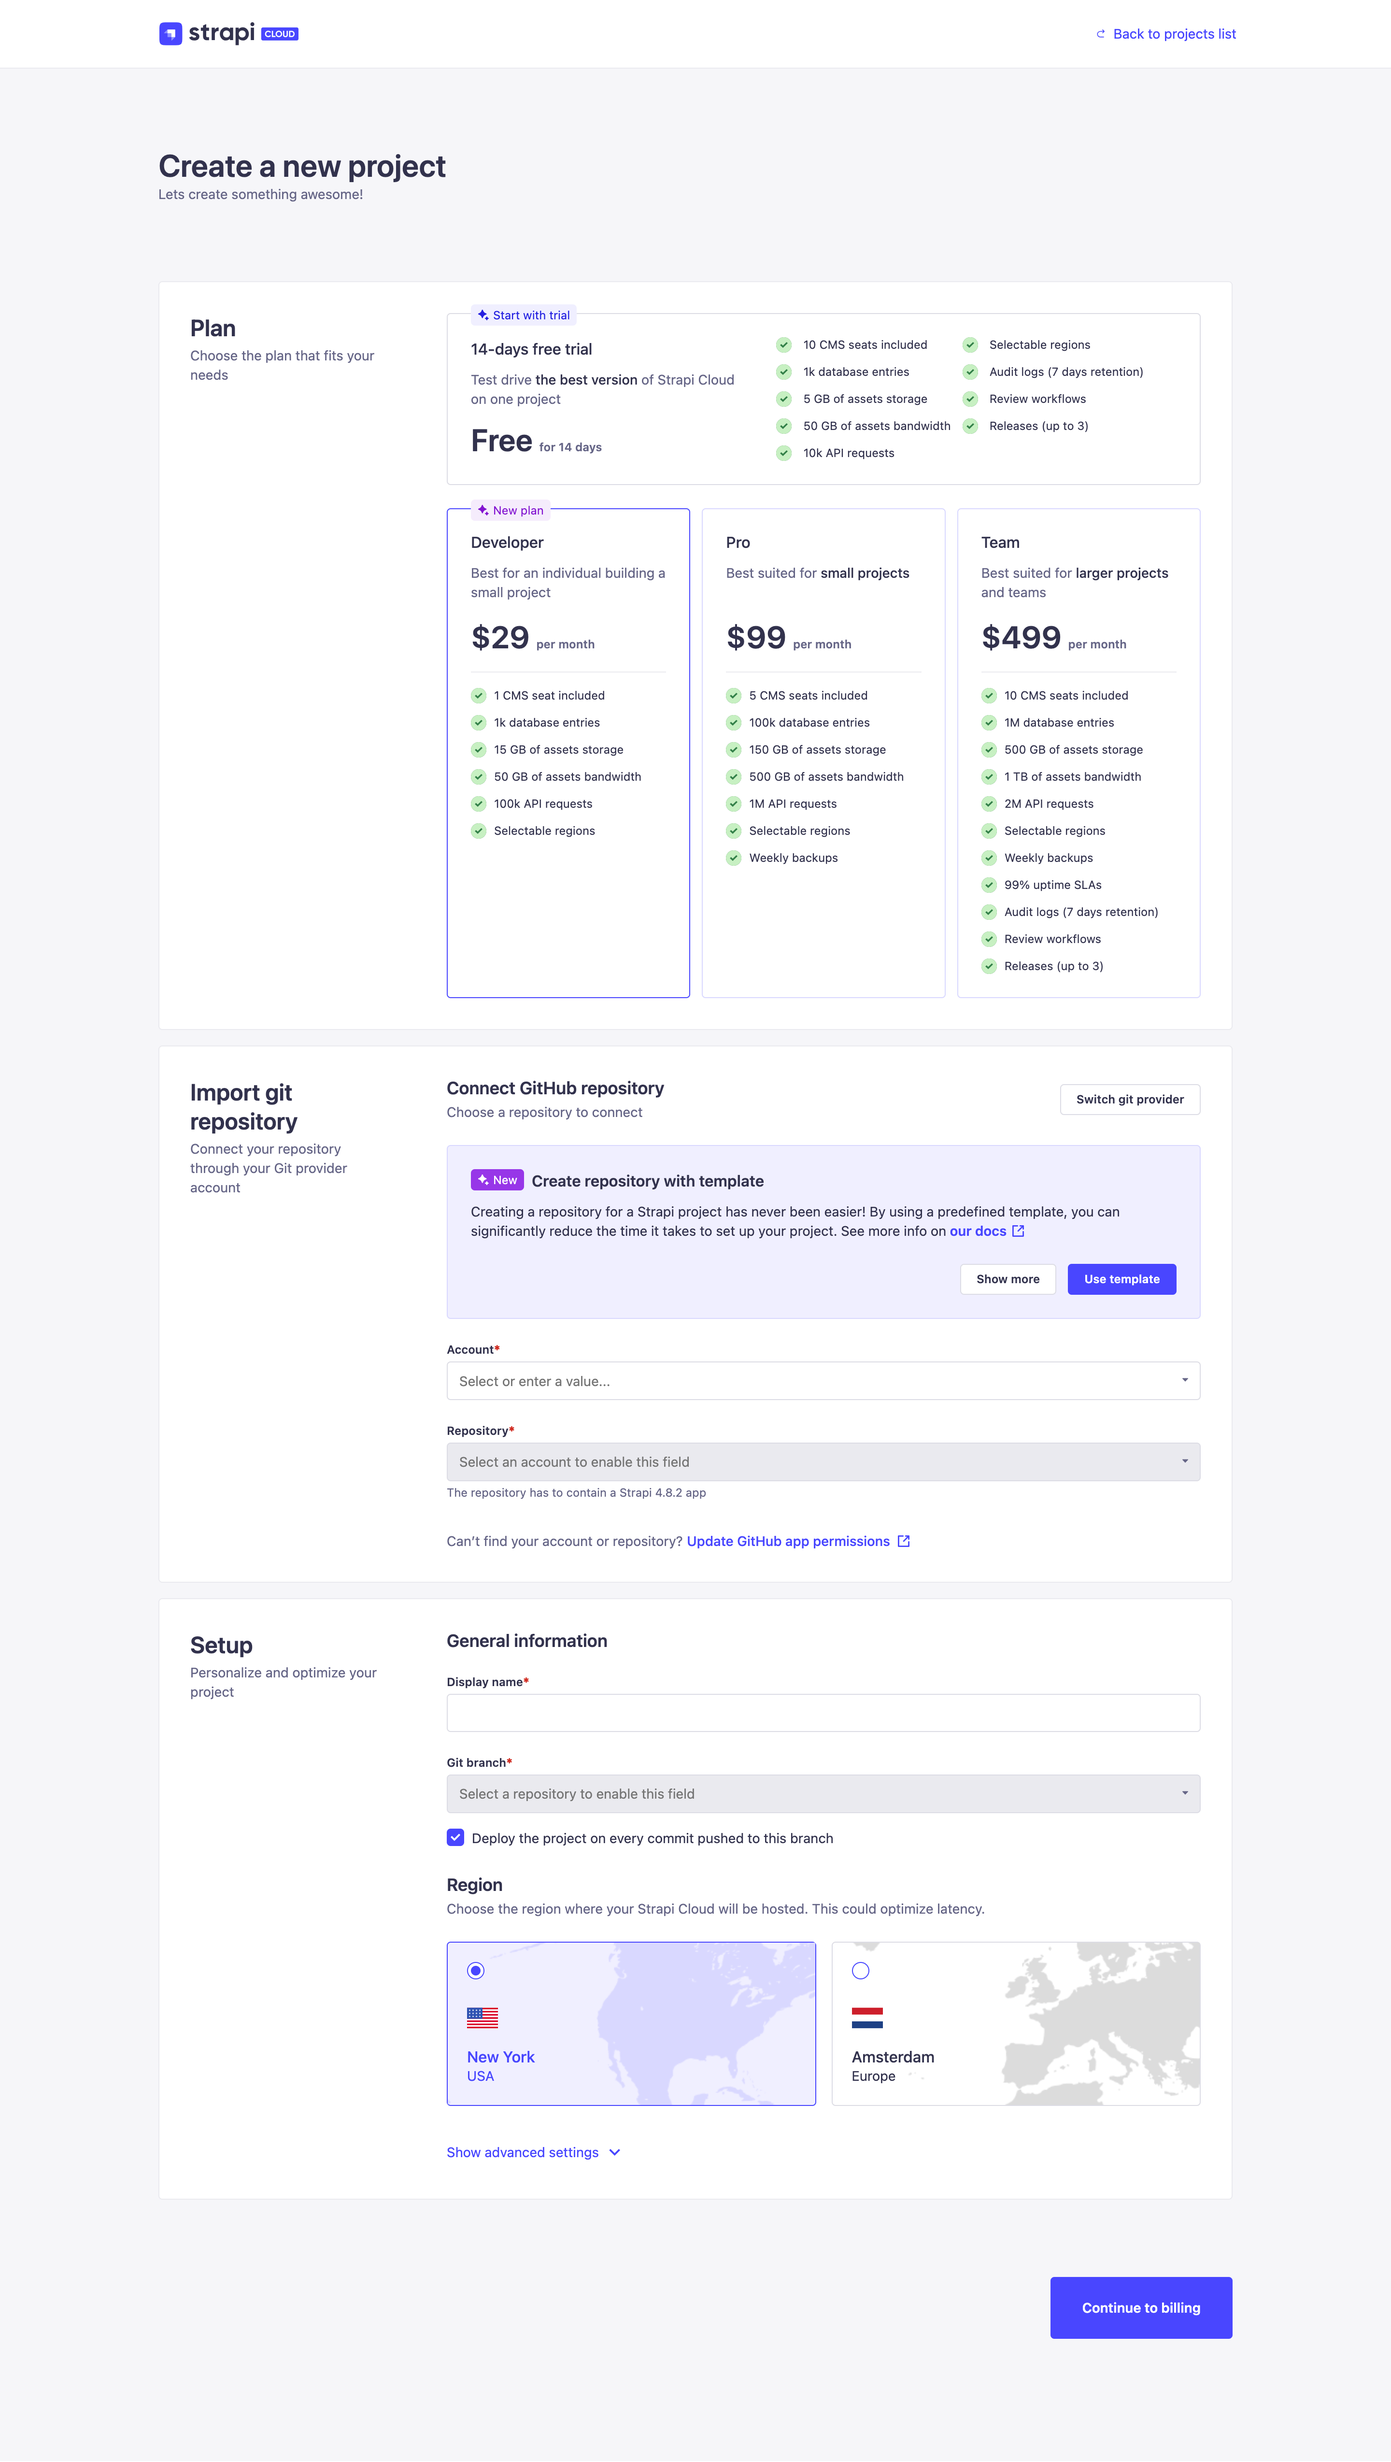
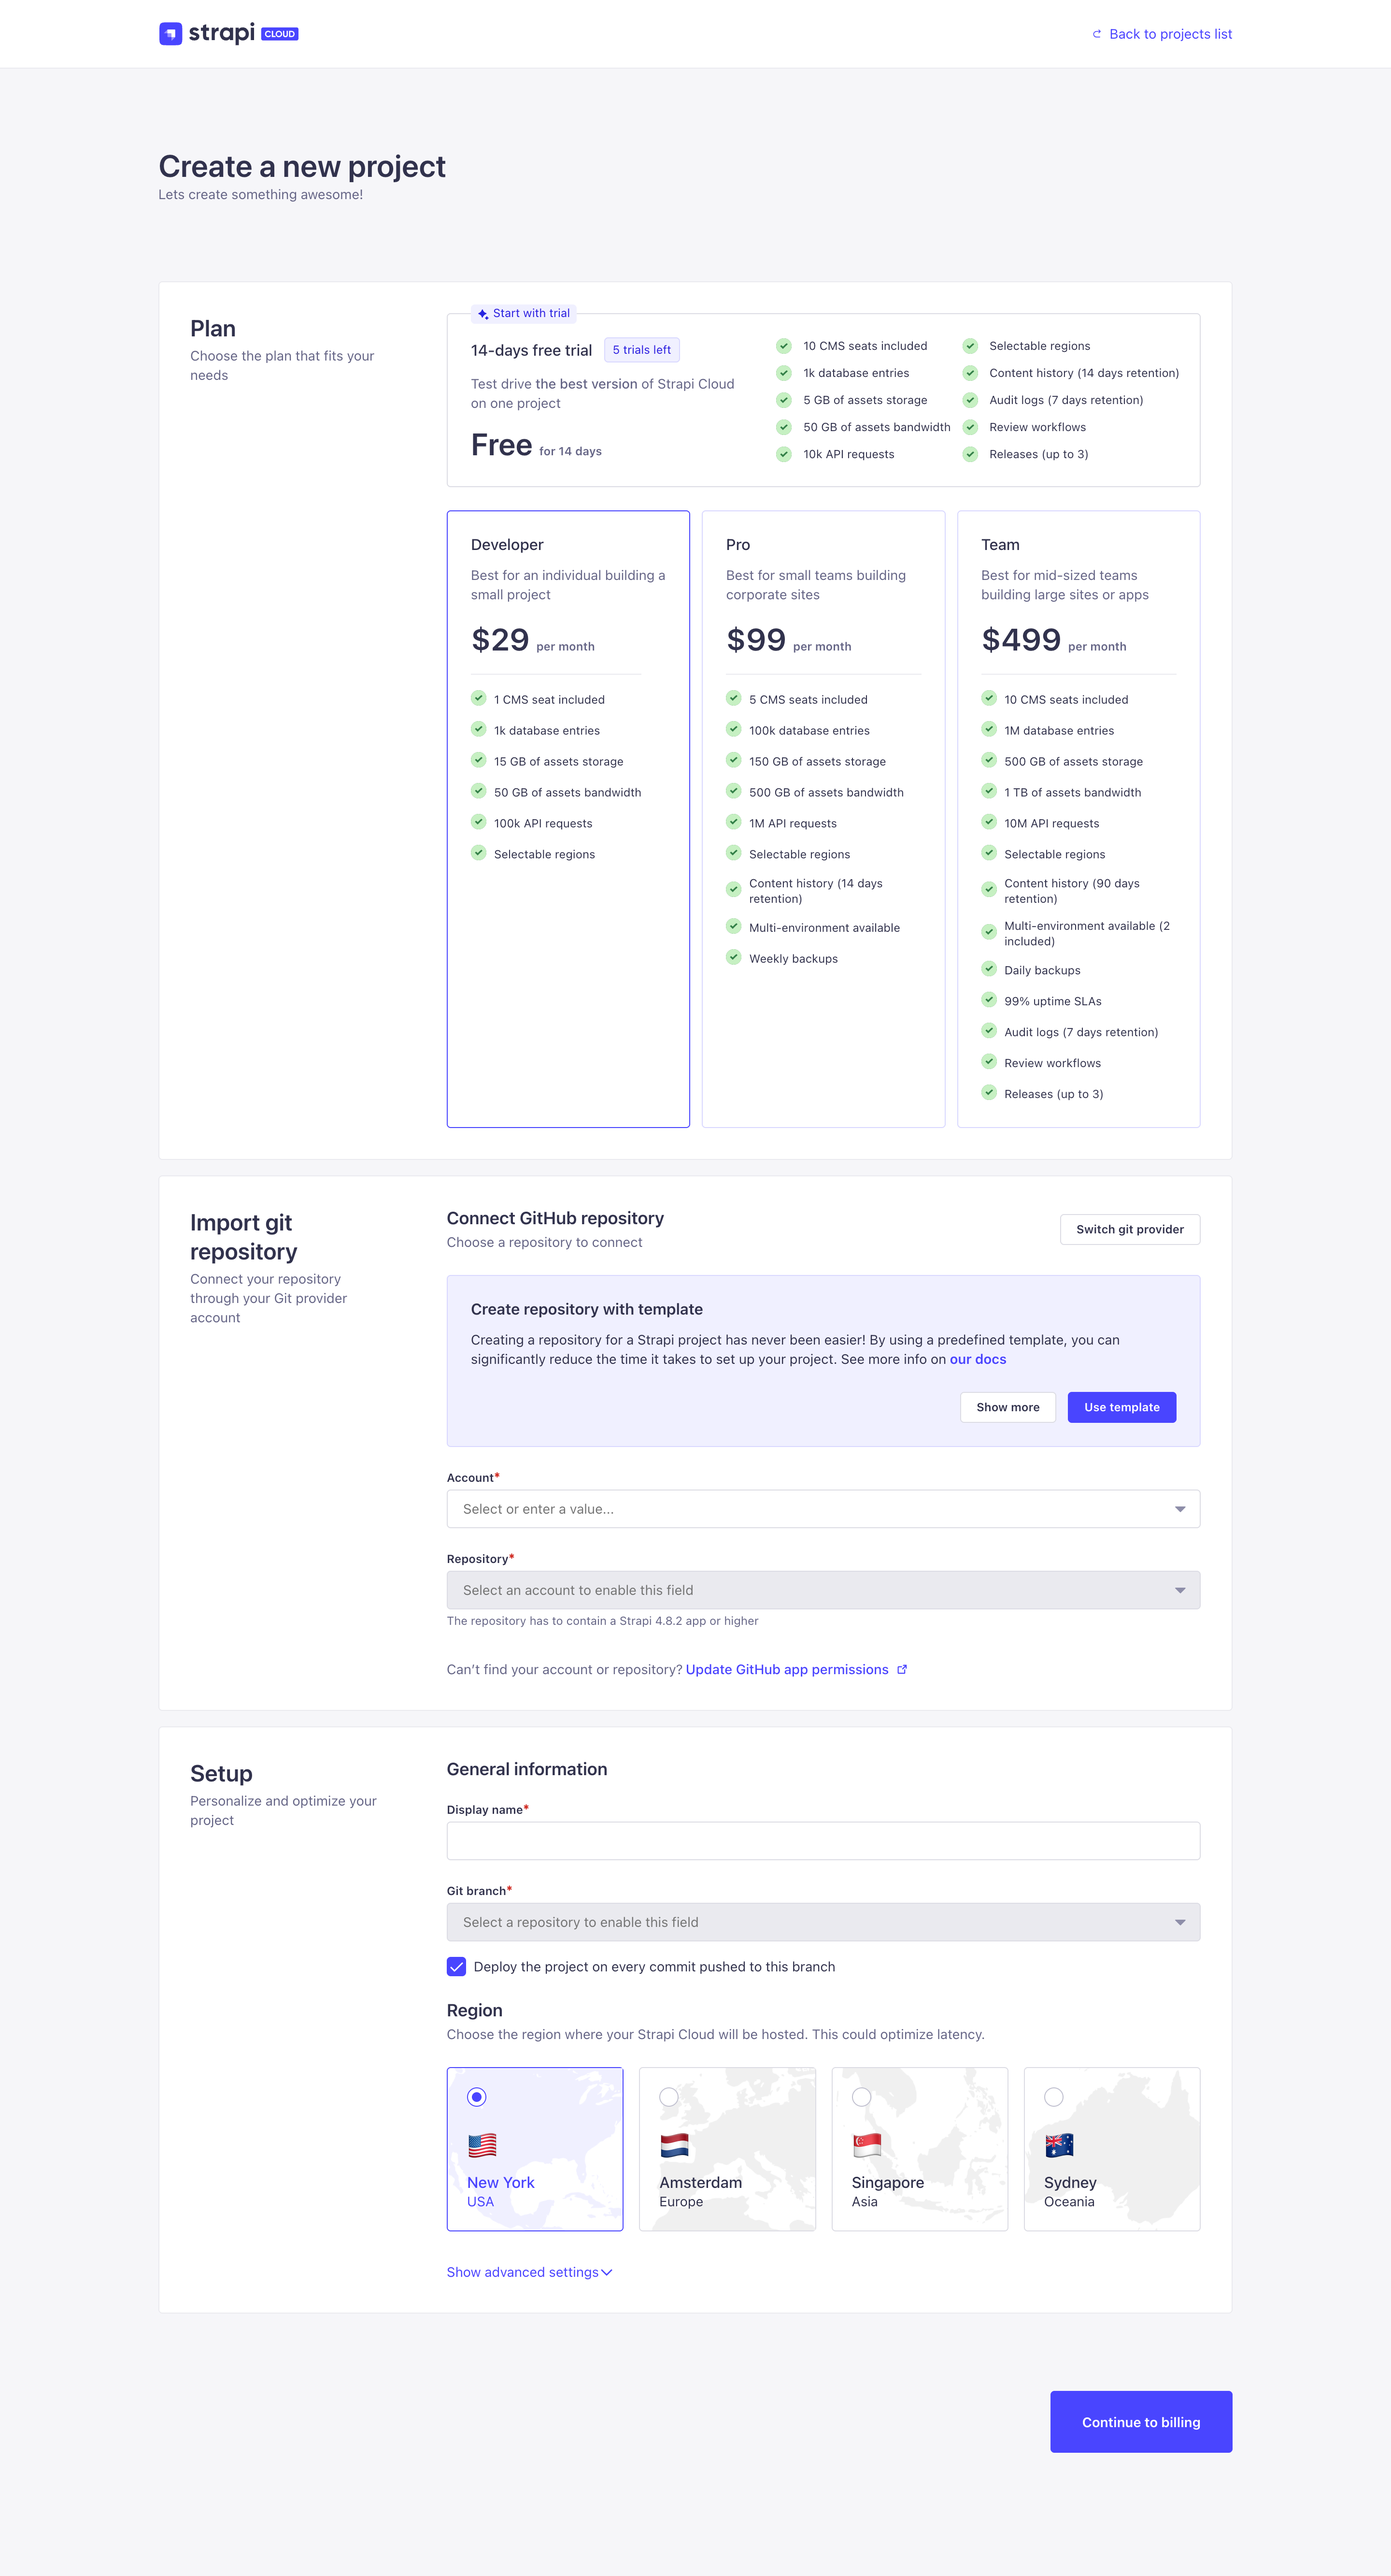
Add new Cloud regions

diff --git a/docusaurus/docs/cloud/getting-started/deployment.md b/docusaurus/docs/cloud/getting-started/deployment.md
@@ -144,10 +144,10 @@ Before you can deploy your Strapi application on Strapi Cloud using the Cloud da
 
     | Setting name | Instructions                                                                                            |
     |--------------|---------------------------------------------------------------------------------------------------------|
-    | Display name | Write the name of your Strapi app, this is fetched from the repository name but can be edited. It is automatically converted to slug format (`my-strapi-app`). |
+    | Display name | Write the name of your Strapi app, this is fetched from the repository name but can be edited.<br /> It is automatically converted to slug format (`my-strapi-app`). |
     | Git branch   | Choose from the drop-down the default branch to use for this deployment. This uses the default branch of the repository. |
     | Deploy on push | Check the box to automatically deploy the latest changes from the selected branch. When disabled, you will need to manually deploy the latest changes. |
-    | Region       | Choose the geographic location of the servers where your Strapi application is hosted. Selected region can either be New York in North America (default) or Amsterdam in Europe. |
+    | Region       | Choose the geographic location of the servers where your Strapi application is hosted. Selected region can either be New York in North America (default), Amsterdam in Europe, Singapore in Asia or Sydney in Oceania. |
 
     :::note
     The Git branch and "Deploy on push" settings can be modified afterwards through the project's setting, however the project name and hosting region setting can only be chosen during the creation of the project (see [Project Settings](/cloud/projects/settings)).
